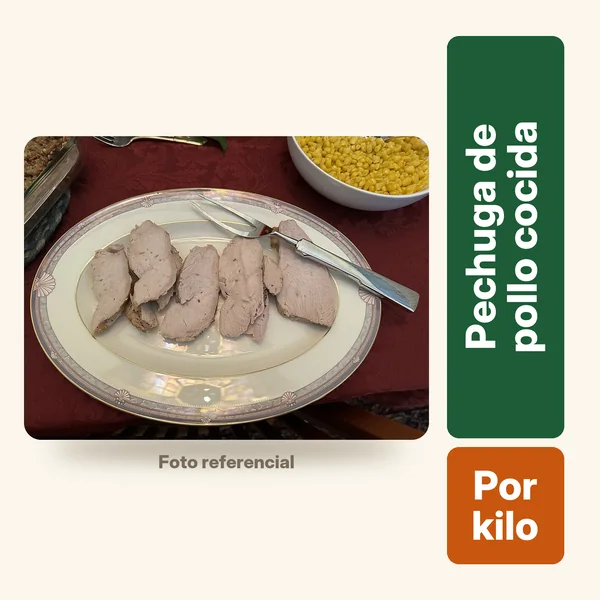
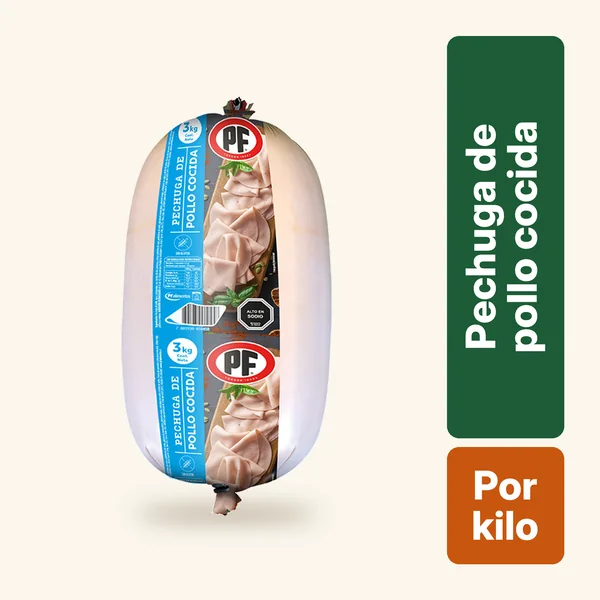
Cecinas y congelados: fotos del producto real (PF Alimentos y Open Food Facts)

diff --git a/legal.html b/legal.html
@@ -409,23 +409,15 @@ footer p{margin:0 0 6px}
         <li>«Comparison of Table Salt with Kitchen Salt», de Lexlex, CC BY-SA 4.0 (<a href="https://commons.wikimedia.org/wiki/File:Comparison_of_Table_Salt_with_Kitchen_Salt.png">ver original</a>): Sal 25 kg</li>
         <li>«Soybean Meal (10059014026)», de United Soybean Board, CC BY 2.0 (<a href="https://commons.wikimedia.org/wiki/File:Soybean_Meal_(10059014026).jpg">ver original</a>): Soya 25 kg</li>
       </ul></li>
-      <li id="fotos-23"><b>Fotos referenciales del 23/11/2026</b> (cecinas, congelados y mantequilla; dicen «Foto referencial», no son los productos de esas marcas y se reemplazarán por fotos propias). Se recortaron en un recuadro con nuestras etiquetas; las que tienen licencia CC BY-SA quedan, como ficha, bajo esa misma licencia.<ul>
-        <li>«Sliced cooked ham», de Anna.Massini, CC BY 4.0 (<a href="https://commons.wikimedia.org/wiki/File:Sliced_cooked_ham.jpg">ver original</a>): Jamón artesanal, Jamón glacé, Jamón pierna, Jamón pierna sándwich</li>
-        <li>«Mortadella», de ehud, CC BY 2.0 (<a href="https://commons.wikimedia.org/wiki/File:Mortadella.jpg">ver original</a>): Mortadela jamonada</li>
+      <li id="fotos-23"><b>Fotos de cecinas, congelados y mantequilla (23/11/2026)</b>. Las de Apanado de pollo, Arvejas congeladas, Carne molida, Churrasco de vacuno, Jamón glacé, Jamón pierna sándwich, Mantequilla panificadora, Mortadela jamonada, Nuggets de pollo, Paté surtido, Pechuga de pollo cocida, Salame artesanal, Salchicha tradicional, Salchichas premium, Salchichas sureñas son fotos de producto publicadas por su fabricante, PF Alimentos (<a href="https://pfalimentos.cl">pfalimentos.cl</a>), recortadas sobre nuestro fondo. Las demás dicen «Foto referencial»: fotos de Open Food Facts (del producto real, tomadas por sus colaboradores) y de Wikimedia Commons (genéricas, no son los productos de esas marcas); las CC BY-SA quedan, como ficha, bajo esa misma licencia.<ul>
+        <li>«JAMÓN ARTESANAL PF», de colaboradores de Open Food Facts, CC BY-SA 3.0 (<a href="https://world.openfoodfacts.org/product/7801930001432">ver original</a>): Jamón artesanal</li>
+        <li>«Sliced cooked ham», de Anna.Massini, CC BY 4.0 (<a href="https://commons.wikimedia.org/wiki/File:Sliced_cooked_ham.jpg">ver original</a>): Jamón pierna</li>
         <li>«Rullepølse», de Danielle Keller, dominio público (<a href="https://commons.wikimedia.org/wiki/File:Rullep%C3%B8lse.JPG">ver original</a>): Arrollado de campo con ají</li>
-        <li>«Westphalean-Salami-meal», de J.P.Lon (autor que indica Commons), dominio público (<a href="https://commons.wikimedia.org/wiki/File:Westphalean-Salami-meal.jpg">ver original</a>): Salame artesanal</li>
-        <li>«Cooked turkey breast - November 2023 - Sarah Stierch», de Missvain, CC BY 4.0 (<a href="https://commons.wikimedia.org/wiki/File:Cooked_turkey_breast_-_November_2023_-_Sarah_Stierch.jpg">ver original</a>): Pechuga de pollo cocida</li>
-        <li>«Wiener Wuerstchen (fcm)», de Frank C. Müller, CC BY-SA 3.0 (<a href="https://commons.wikimedia.org/wiki/File:Wiener_Wuerstchen_(fcm).jpg">ver original</a>): Salchicha tradicional, Salchichas premium, Salchichas sureñas</li>
-        <li>«Chicken Liver Pâté», de TheCulinaryGeek, CC BY 2.0 (<a href="https://commons.wikimedia.org/wiki/File:Chicken_Liver_P%C3%A2t%C3%A9.jpg">ver original</a>): Paté surtido</li>
-        <li>«Five raw beef patties», de Shixart1985, CC BY 2.0 (<a href="https://commons.wikimedia.org/wiki/File:Five_raw_beef_patties.jpg">ver original</a>): Hamburguesa, Hamburguesa T-Rex, Hamburguesa de pollo</li>
-        <li>«Raw beef steak, 2011», de Jellaluna, CC BY 2.0 (<a href="https://commons.wikimedia.org/wiki/File:Raw_beef_steak,_2011.jpg">ver original</a>): Churrasco de vacuno</li>
-        <li>«USDA 2026 Meat ground», de U.S. Department of Health and Human Services, dominio público (<a href="https://commons.wikimedia.org/wiki/File:USDA_2026_Meat_ground.png">ver original</a>): Carne molida</li>
-        <li>«Impossible chicken nuggets 2», de Mx. Granger, CC0 (<a href="https://commons.wikimedia.org/wiki/File:Impossible_chicken_nuggets_2.jpg">ver original</a>): Nuggets de pollo</li>
-        <li>«Grilled Chicken Breasts (28905381261)», de Sharon Chen from Austin, United States, CC BY 2.0 (<a href="https://commons.wikimedia.org/wiki/File:Grilled_Chicken_Breasts_(28905381261).jpg">ver original</a>): Suprema de pollo a la plancha</li>
-        <li>«Fried Chicken strips», de Mark Miller, CC BY 3.0 (<a href="https://commons.wikimedia.org/wiki/File:Fried_Chicken_strips.jpg">ver original</a>): Apanado de pollo</li>
+        <li>«Five raw beef patties», de Shixart1985, CC BY 2.0 (<a href="https://commons.wikimedia.org/wiki/File:Five_raw_beef_patties.jpg">ver original</a>): Hamburguesa</li>
+        <li>«Hamburguesa de pollo PF», de colaboradores de Open Food Facts, CC BY-SA 3.0 (<a href="https://world.openfoodfacts.org/product/7801930025551">ver original</a>): Hamburguesa de pollo</li>
+        <li>«Hamburguesa T-REX PF», de colaboradores de Open Food Facts, CC BY-SA 3.0 (<a href="https://world.openfoodfacts.org/product/7801930001906">ver original</a>): Hamburguesa T-Rex</li>
+        <li>«SUPREMA de POLLO A LA PLANCHA PF», de colaboradores de Open Food Facts, CC BY-SA 3.0 (<a href="https://world.openfoodfacts.org/product/7801930002552">ver original</a>): Suprema de pollo a la plancha</li>
         <li>«Corn kernels in bowl - Massachusetts», de Daderot, CC0 (<a href="https://commons.wikimedia.org/wiki/File:Corn_kernels_in_bowl_-_Massachusetts.jpg">ver original</a>): Choclo grano congelado</li>
-        <li>«Frozen Peas (8042519481)», de Paul Wilkinson from London, United Kingdom, CC BY 2.0 (<a href="https://commons.wikimedia.org/wiki/File:Frozen_Peas_(8042519481).jpg">ver original</a>): Arvejas congeladas</li>
-        <li>«Butter block», de Meanos, dominio público (<a href="https://commons.wikimedia.org/wiki/File:Butter_block.JPG">ver original</a>): Mantequilla panificadora</li>
       </ul></li>
       <li><b>Fotos referenciales de cajas de cartón (pizza, papas fritas y pollo):</b> son fotos de producto publicadas por distribuidores de envases en Chile (Packout, Blessed, Iterlog y Proveecasinos), puestas sobre nuestro fondo. Se usan solo para mostrar el tipo de caja; las imágenes son de sus dueños y se reemplazarán por fotos propias.</li>
       <li><b>Fotos de productos de la página web:</b> son imágenes referenciales, creadas para este sitio con inteligencia artificial (Higgsfield). Muestran el tipo de producto que vendemos; el producto real puede variar en forma, tamaño y color.</li>

diff --git a/CLAUDE.md b/CLAUDE.md
@@ -363,6 +363,6 @@ Pedido de David: «el stock que hay en bodega según la planilla actualizada que
 - PDF del pedido: «📄 PDF del pedido» (Confirmado, Entregado) y «📄 Enviar PDF del pedido» (Listos). Se arma en SabAPP sin librerías (`Pdf`, `pdfPedido`; A4, Helvetica con WinAnsi, logo `img/logo-emporio.webp` sobre verde, GitHub Pages da `Access-Control-Allow-Origin: *`): estado, cliente, retiro o despacho, productos con código MyPyme, «Cambios en su pedido», totales (descuento y despacho) y datos de transferencia si corresponde; pie «no es una boleta». Celular: se comparte (`navigator.share`, WhatsApp en la lista); PC: se descarga y se abre el chat del cliente (wa.me) para arrastrar el PDF.
 - Probado: script con planilla simulada en Node (`simuladorPlanilla.js` + `probarGs.js`, 28 pruebas: columnas nuevas, códigos, editar, devolver, despacho con descuento, errores, stock) y SabAPP en el navegador con el script real sobre la planilla simulada (`pruebaSabapp.html`, se usa copiándola a `herramientas/consola/`); PDF revisado con PyMuPDF; carta: pedido, línea MYPYME, búsqueda por código, sin errores.
 - **Publicado el 23/11/2026 (f5ea710, David: «cuando lo tengas listo me lo subes todo a la web»):** carta (códigos MyPyme, búsqueda, cartuchos blancos retirados) y sabapp/; verificado en la web (carta md5 igual; sabapp igual salvo fines de línea). **Instalado el mismo 23/11** (David entró con jefatura@ en el navegador de la app): proyecto `1bhIOT-ScYgyULVt6i0mKymeNqp75TntV_s014qZMe5mLkX9NDs0R3vL0` (Código.gs y Panel.html), código cargado con `fetch` desde raw.githubusercontent.com (commit f5ea710; funciona en el editor, no hay que pegar ni aplicar diferencias) y `monaco` `pushEditOperations`, huellas SHA-256 verificadas (.gs b56018c59e945fe9, Panel f5468b3f422cf0a1; lo instalado antes era el .gs 12af9a93… y un Panel del 19/11, 9289bff3…, más viejo que el de la web). Versión 17 («23/11/2026 códigos MyPyme (planilla 7), editar pedido y PDF») en las TRES implementaciones: SabAPP vendedores AKfycbxONg…, SabAPP correo y clave AKfycbzezl… y Catálogo AKfycbzP_AWW…. Probado en vivo: `?stock=emporio` → {ok:true,cerrados:[]}, la API responde «activo» y SabAPP de vendedores muestra los pedidos reales con códigos de la (7) (ej.: trapero naranja LIM013, film PLA015) y los botones «Editar pedido» y «PDF del pedido» (no se tocaron pedidos reales). El menú «Implementar» del editor se abre con eventos pointerdown/mousedown/click enviados por JavaScript al botón (`aria-haspopup`); en la lista de versiones, hacer clic en la opción cuando la lista ya está quieta.
-- **Cecinas, congelados y mantequilla en la carta (23/11/2026, David: «estos son todos los códigos, porque faltan congelados y cecinas», con la planilla 13 del escritorio, `Desktop/Inventario_de_Artículos_-_MyPyme_-_ERP_13.xlsx`, más completa que la de Descargas):** 23 productos nuevos con su código de MyPyme como código de la carta (sin traducción en `COD_MYPYME`), `nuevo:true`, después de LAC008. Secciones nuevas «Cecinas» y «Congelados» en la familia Despensa, después de Lácteos; ícono «Congelados» nuevo (copo) en `ICONOS` («Cecinas» ya existía). Cecinas por kilo (CEC001–CEC008: jamones, mortadela, arrollado, salame, pechuga de pollo cocida) como los quesos: `detalle:"Precio por kilo"`, `bolsas:[[250, ¼ kg],[1000, kilo]]`, `porcion:true`; kilo = «Precio venta» y ¼ kg = el de «Observaciones» («Precio 1/4 kg: $…»). Por unidad: salchichas y paté (CEC009–CEC012), congelados (CGL001–CGL010) y LAC010 mantequilla panificadora 250 g (en Lácteos), al «Precio venta» de la planilla 13 (19 % de margen sobre factura de Productos Fernández del 19/11). Sin stock ni por mayor (la planilla no trae precio por caja). Nombres con la marca de la planilla (PF, RDA, RA). Fotos: 23 fichas referenciales con «Foto referencial» (lote `fotos23/` del scratchpad: `lote22Datos.py` con grupos y etiquetas, `candidatos*.json`, `elegidas.json`, `aplicarFotos23.py` que copia las fichas, pone `foto:` en cada línea y escribe los créditos), 16 fotos de Wikimedia Commons (CC0, dominio público, CC BY y una CC BY-SA, las salchichas), créditos en `legal.html#fotos-23`. Una misma foto para los 4 jamones, las 3 salchichas y las 3 hamburguesas (la de pollo usa la de hamburguesa cruda). Probado: 509 productos visibles, todos con foto; pedido con ¼ kg de jamón → «CEC001: 0.5 kg» en la línea MYPYME; búsqueda CEC001 y «salchichas».
+- **Cecinas, congelados y mantequilla en la carta (23/11/2026, David: «estos son todos los códigos, porque faltan congelados y cecinas», con la planilla 13 del escritorio, `Desktop/Inventario_de_Artículos_-_MyPyme_-_ERP_13.xlsx`, más completa que la de Descargas):** 23 productos nuevos con su código de MyPyme como código de la carta (sin traducción en `COD_MYPYME`), `nuevo:true`, después de LAC008. Secciones nuevas «Cecinas» y «Congelados» en la familia Despensa, después de Lácteos; ícono «Congelados» nuevo (copo) en `ICONOS` («Cecinas» ya existía). Cecinas por kilo (CEC001–CEC008: jamones, mortadela, arrollado, salame, pechuga de pollo cocida) como los quesos: `detalle:"Precio por kilo"`, `bolsas:[[250, ¼ kg],[1000, kilo]]`, `porcion:true`; kilo = «Precio venta» y ¼ kg = el de «Observaciones» («Precio 1/4 kg: $…»). Por unidad: salchichas y paté (CEC009–CEC012), congelados (CGL001–CGL010) y LAC010 mantequilla panificadora 250 g (en Lácteos), al «Precio venta» de la planilla 13 (19 % de margen sobre factura de Productos Fernández del 19/11). Sin stock ni por mayor (la planilla no trae precio por caja). Nombres con la marca de la planilla (PF, RDA, RA). Fotos (David: «busca en internet cada uno de estos productos y ponles imágenes»): lote `fotos23b/` del scratchpad (`prepararLote23b.py`, `aplicarFotos23b.py`). 15 son la foto oficial del fabricante PF Alimentos, buscada en su biblioteca de WordPress (`pfalimentos.cl/wp-json/wp/v2/media?search=<código PF>`) con el código de proveedor que trae la planilla 13 en «Observaciones» (ej.: jamón glacé CJP32), recortada sin fondo y sin «Foto referencial»; 4 son de Open Food Facts (foto del producto real, CC BY-SA 3.0: jamón artesanal, hamburguesa de pollo, T-Rex y suprema) y 4 siguen genéricas de Wikimedia Commons porque no apareció el producto exacto (jamón pierna PF, arrollado RDA, hamburguesa PF 90 g y choclo). RA y RDA = Receta del Abuelo (marca de PF); la mantequilla LAC010 es Frutillar (código PF LUI03). Créditos en `legal.html#fotos-23`. Probado: 509 productos visibles, todos con foto; pedido con ¼ kg de jamón → «CEC001: 0.5 kg» en la línea MYPYME; búsqueda CEC001 y «salchichas».
 - **Planilla 13 (23/11/2026, `Downloads/Inventario_de_Artículos_-_MyPyme_-_ERP_13.xlsx`, David: «estos son los códigos últimos actualizados»):** su «Mapa de Codigos» es idéntico al de la (7) (código nuevo, anterior, etiqueta y «hasta 18-11»): `COD_MYPYME` no cambia. Suma 23 productos que no están en la carta: cecinas CEC001–CEC012, congelados CGL001–CGL010 y mantequilla panificadora LAC010. Ojo: su columna «Precio venta» viene vacía o distinta en 270 productos (no trae los precios que David dio por chat y que están en la (7) y en la carta); no se cambiaron precios. Tres descripciones distintas por ediciones hechas en la (7): LIM015, PLA035 (en la 13 «plato blanco N*2») y PLA074 (en la 13 «sin tapa»).
 - Para instalar (con el sí de David): 1) pegar el .gs y el Panel.html nuevos en el proyecto de Apps Script de la planilla EM27-0802 (no se agregan servicios de Google); 2) versión nueva en las TRES implementaciones (catálogo AKfycbzP…, SabAPP vendedores AKfycbxONg…, SabAPP correo y clave AKfycbzezl…); 3) publicar la carta y sabapp/ (`node herramientas/sabapp/construir.js` ya corrido). El orden no rompe nada: con el script viejo la carta nueva solo manda un campo de más y la SabAPP web no muestra «Editar pedido».
